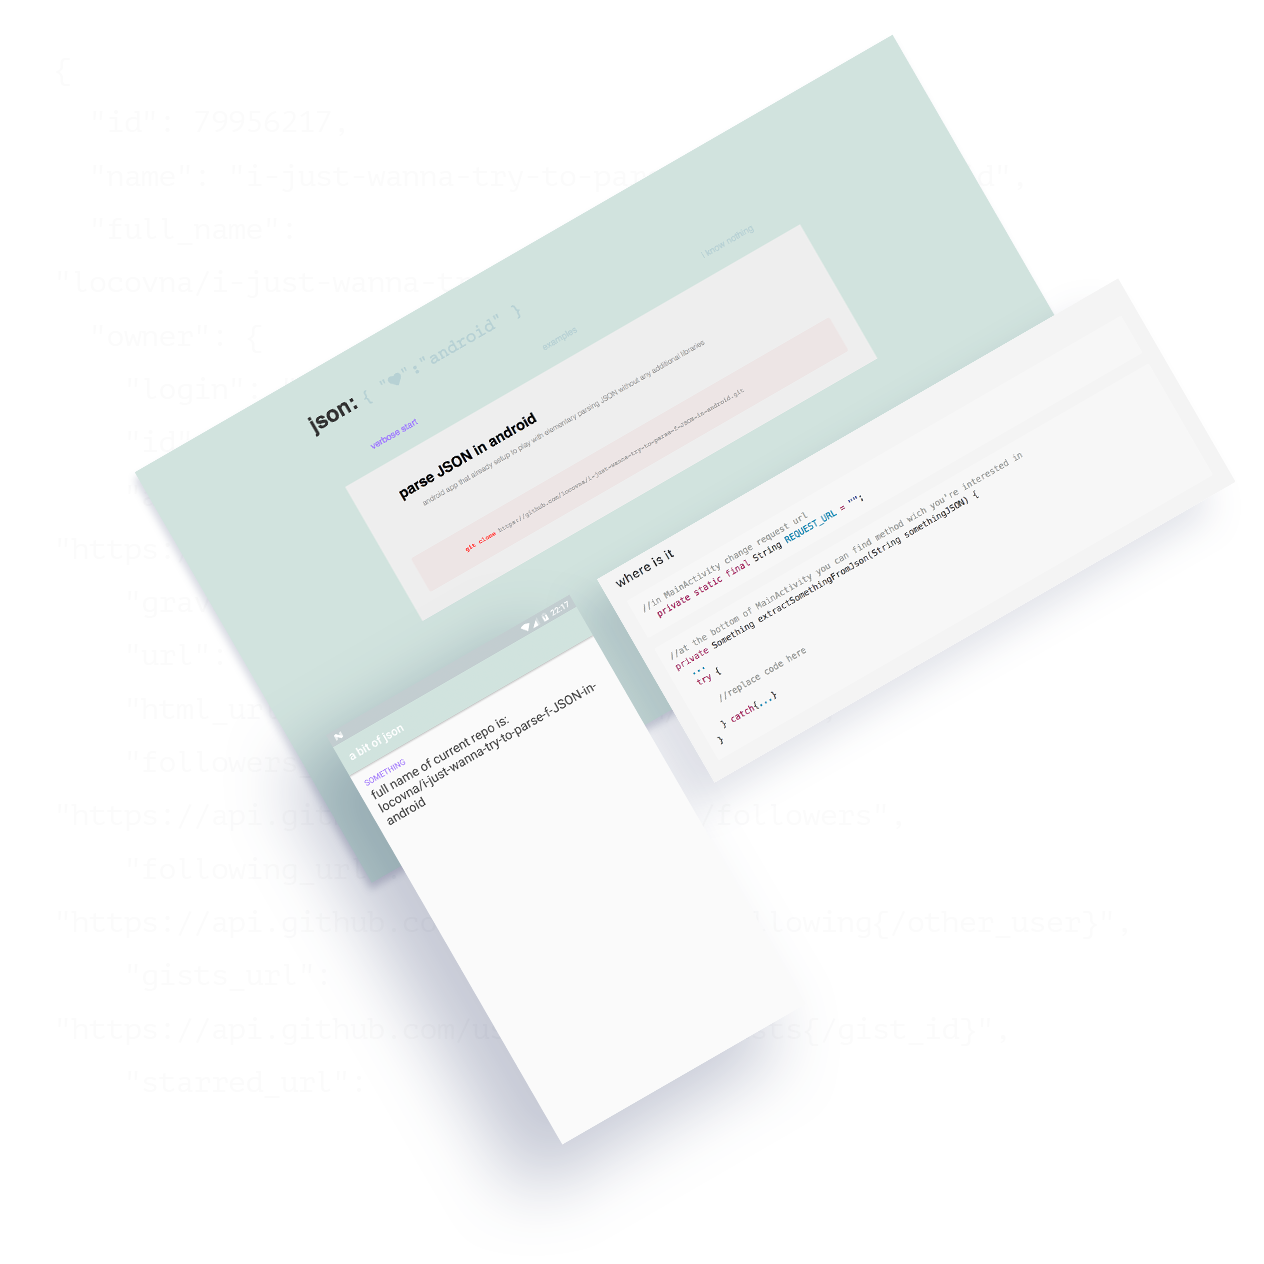
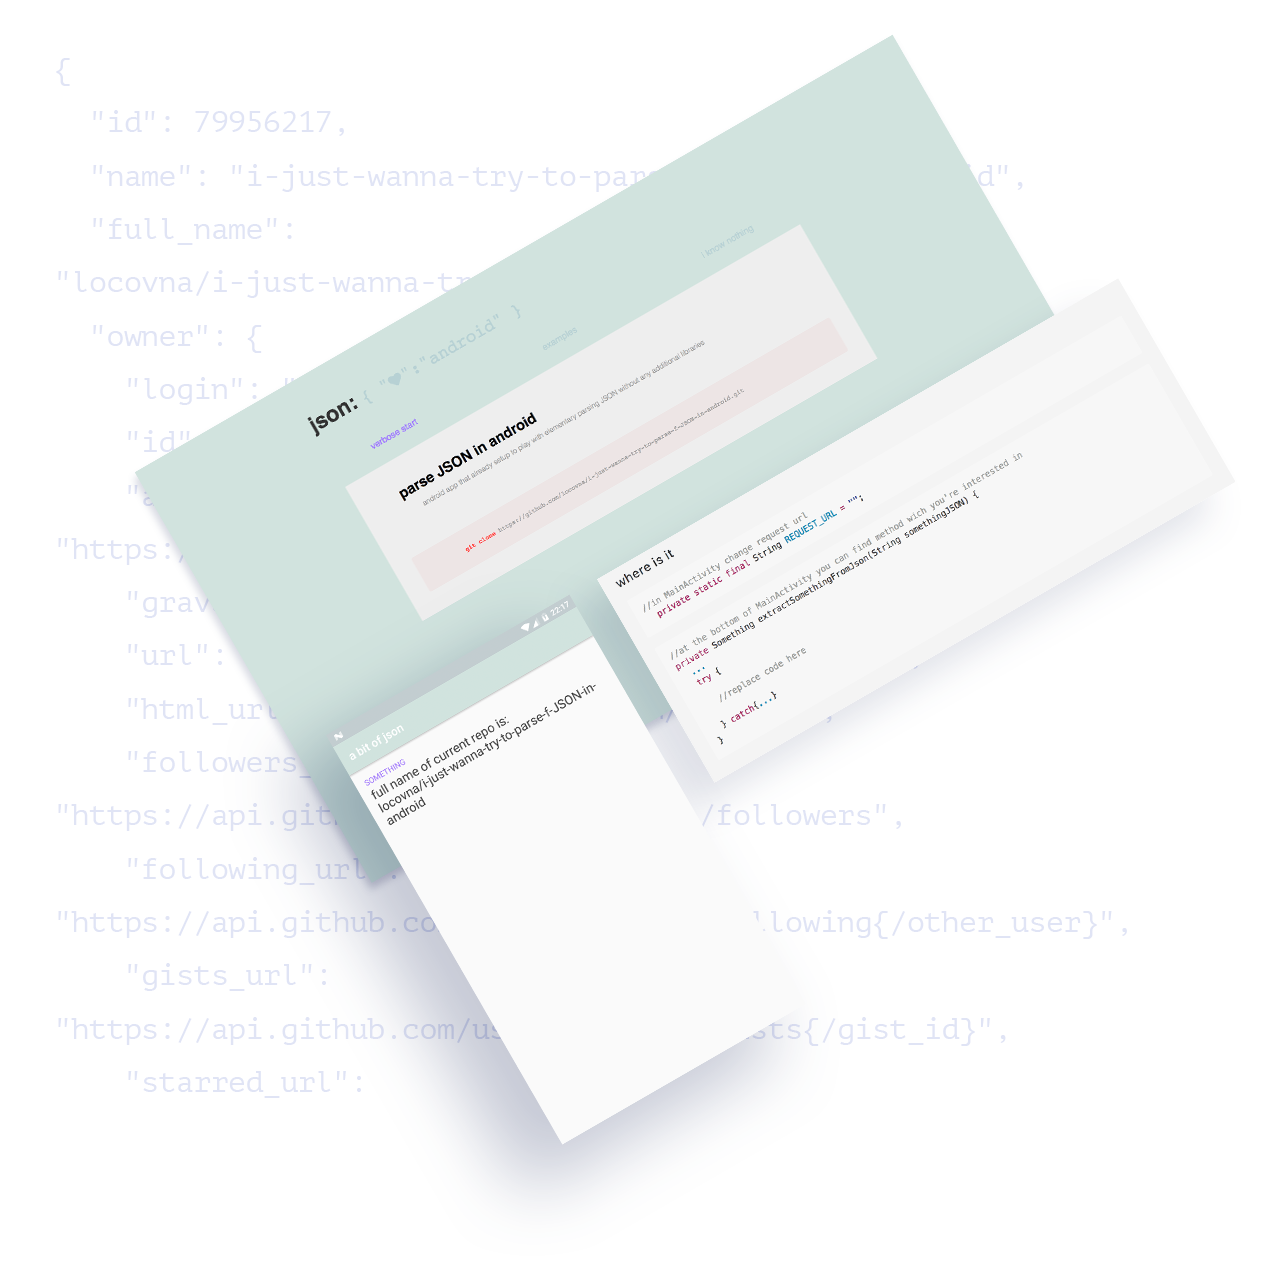
minor improvements

diff --git a/styles/css/main.css b/styles/css/main.css
@@ -46,20 +46,20 @@ section {
 
 #notatka, #weather, #json, #weezeeroonok {
   width: 100vw;
-  background-color: #edfaf2;
+  background-color: #f0f7f3;
   display: flex;
   justify-content: space-around;
   color: grey;
   padding-bottom: 70px; }
 
 #weather {
-  background-color: #e3e0f3; }
+  background-color: #eceef7; }
 
 #json {
-  background-color: #bbbcc7; }
+  background-color: #eaf3f0; }
 
 #weezeeroonok {
-  background-color: #f1e1e1; }
+  background-color: #fbf2f2; }
 
 .post_content {
   padding: 50px 100px;
@@ -85,7 +85,7 @@ section {
     width: auto;
     padding-left: 20px; }
 
-  #post1 {
+  #notatka, #weather, #json, #weezeeroonok {
     display: block; }
 
   .post_content {

diff --git a/styles/main.sass b/styles/main.sass
@@ -49,7 +49,7 @@ section
 
 #notatka
   width: 100vw
-  background-color: #edfaf2
+  background-color: #f0f7f3
   display: flex
   justify-content: space-around
   color: grey
@@ -57,15 +57,15 @@ section
 
 #weather
   @extend #notatka
-  background-color: #e3e0f3
+  background-color: #eceef7
 
 #json
   @extend #notatka
-  background-color: #bbbcc7
+  background-color: #eaf3f0
 
 #weezeeroonok
   @extend #notatka
-  background-color: #f1e1e1
+  background-color: #fbf2f2
 
 .post_content
   padding: 50px 100px

diff --git a/styles/_media.sass b/styles/_media.sass
@@ -12,7 +12,7 @@
   #container
     width: auto
     padding-left: 20px
-  #post1
+  #notatka
     display: block
   .post_content
     padding: 20px
